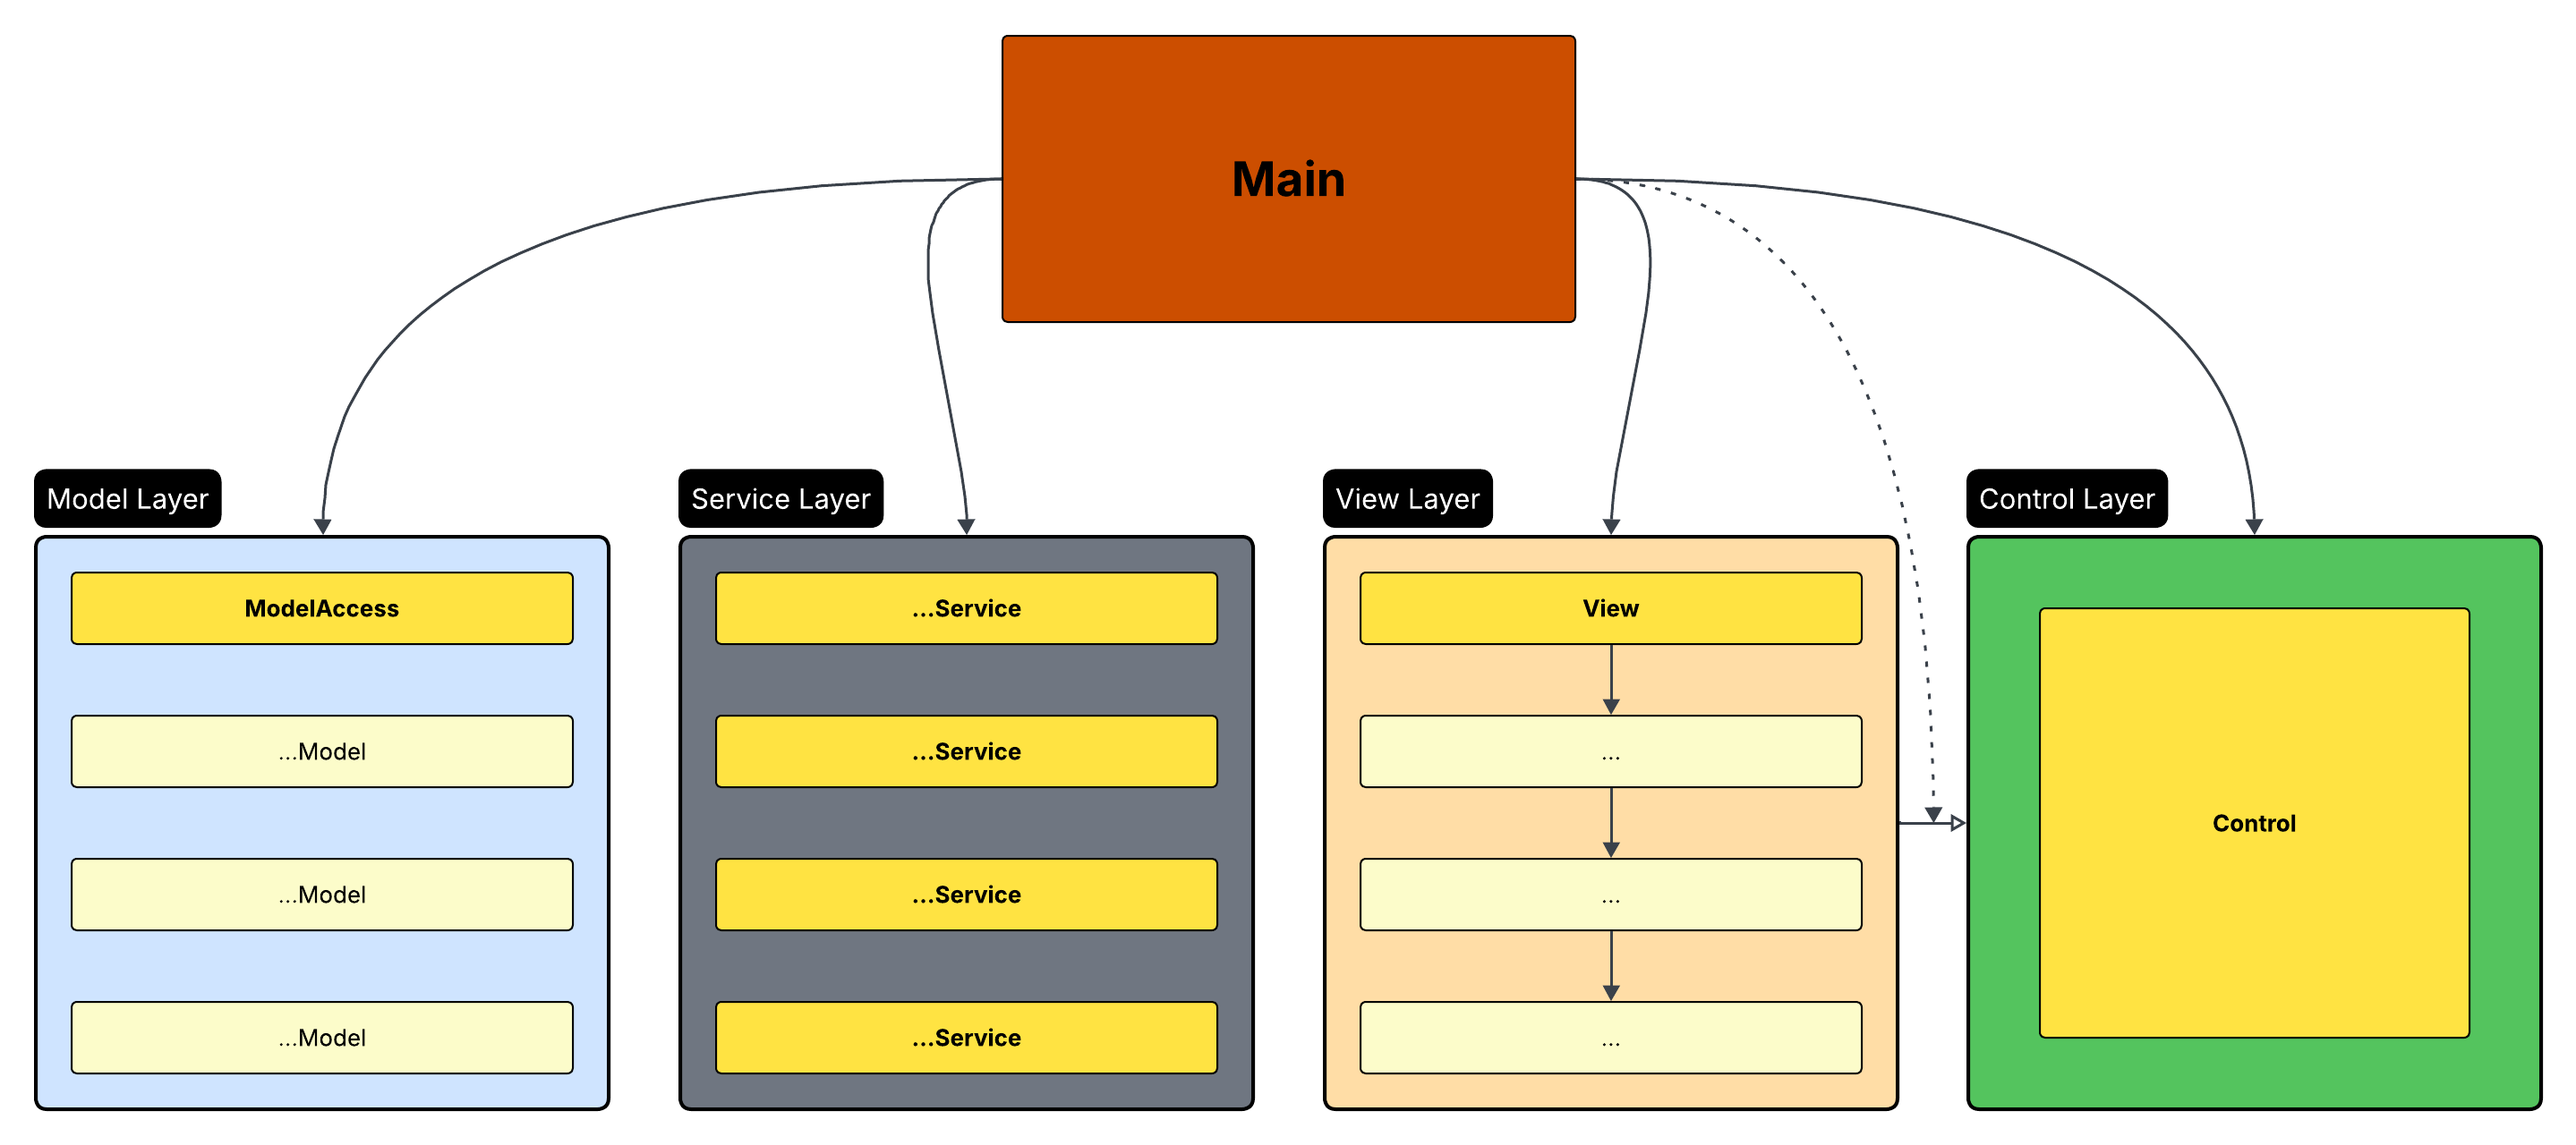
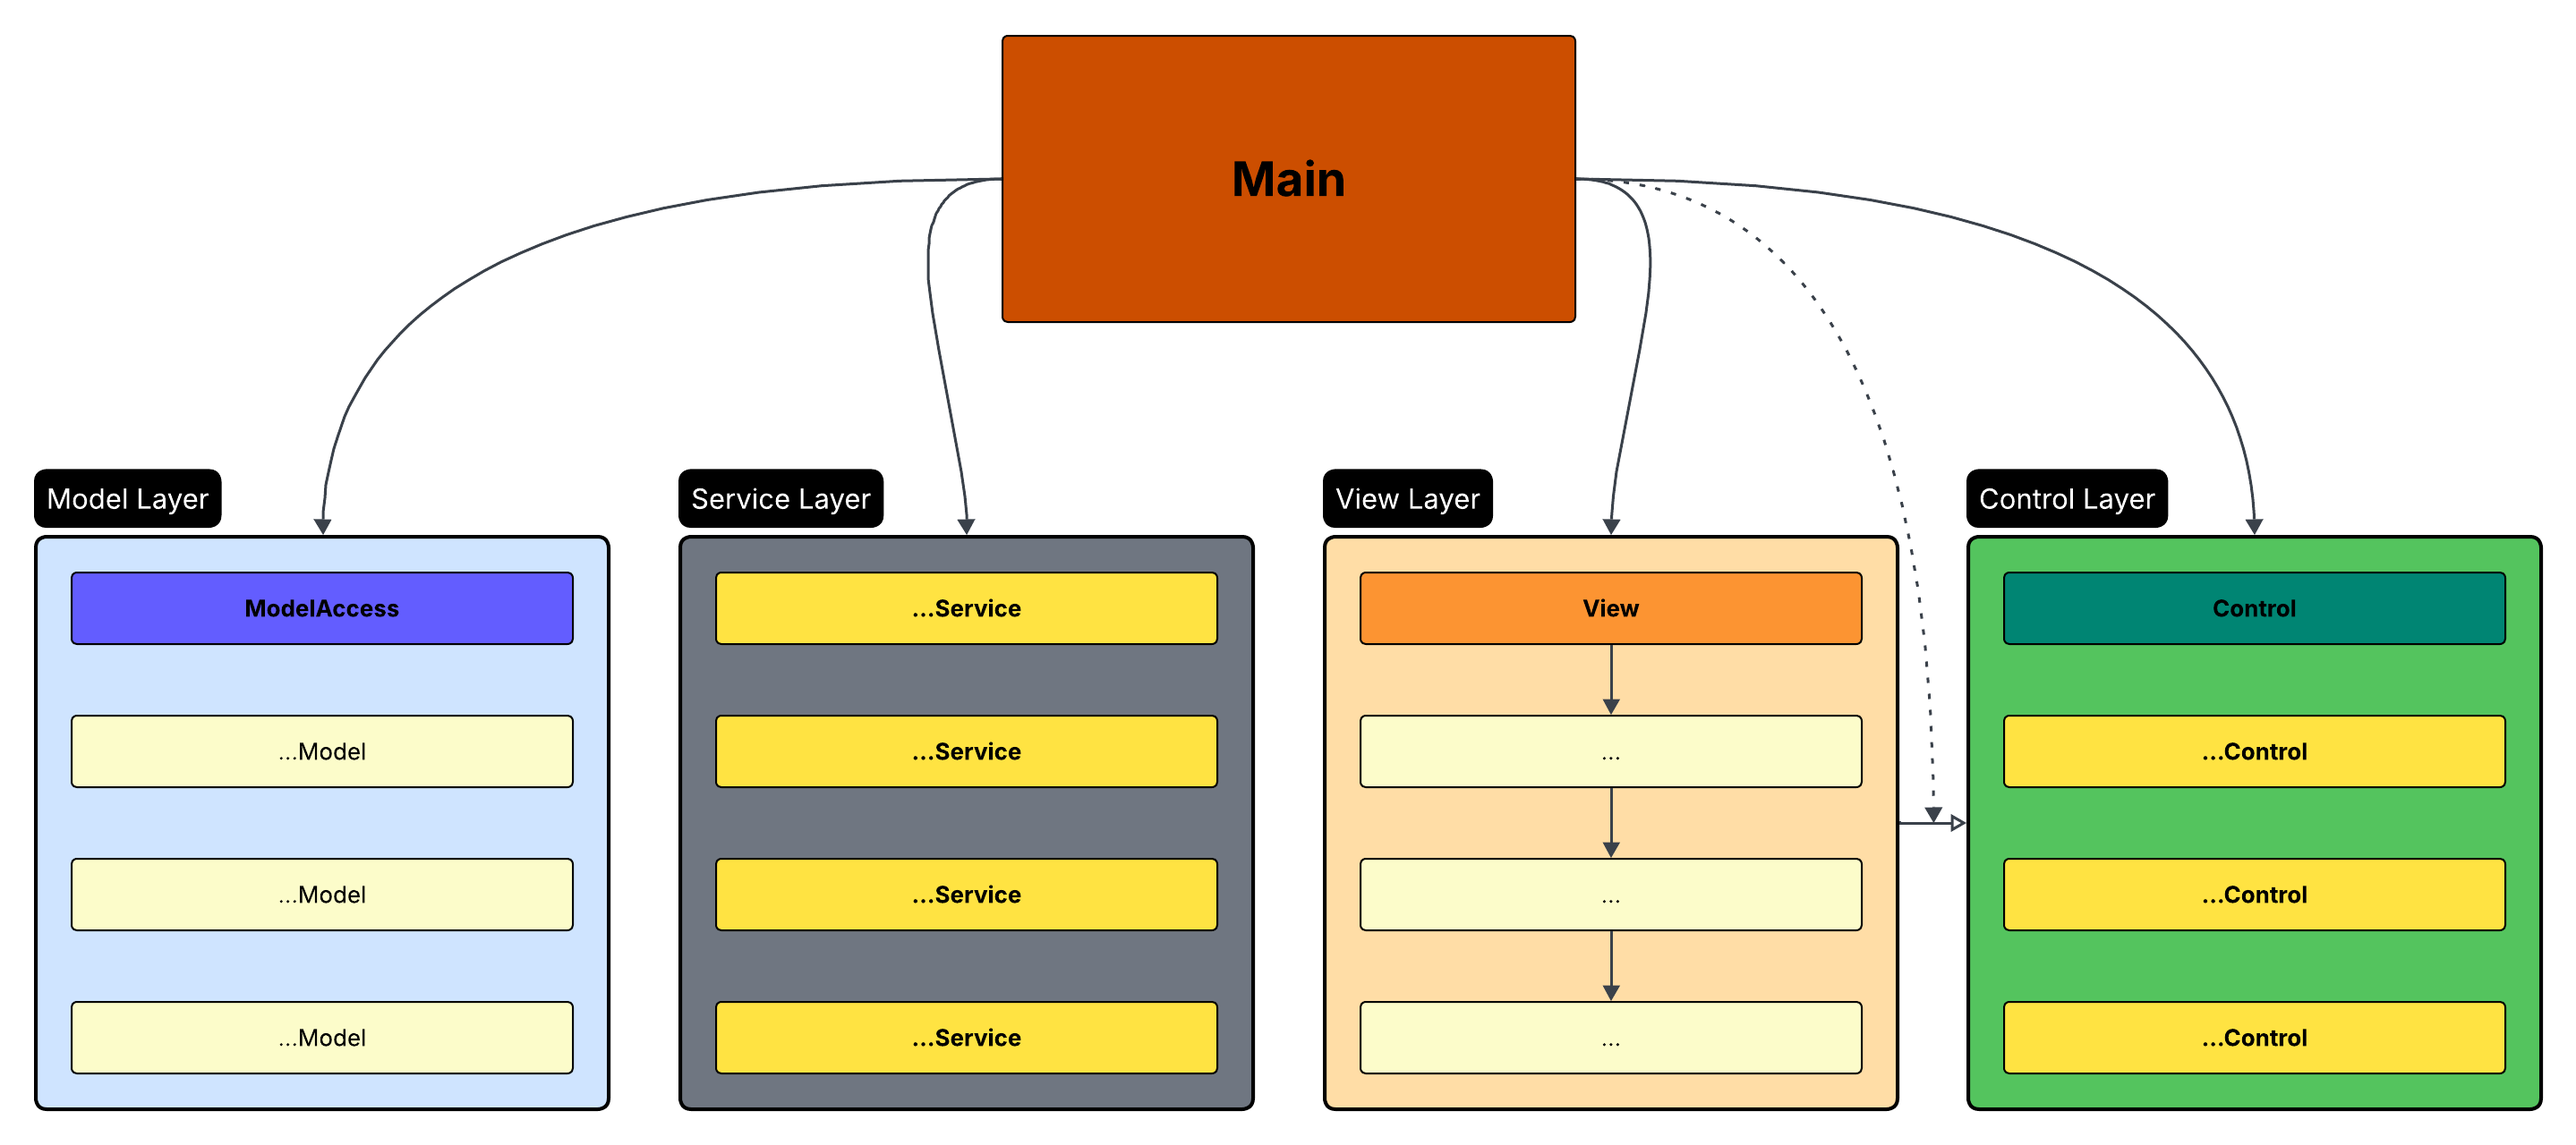
Update design image

diff --git a/hornet/view_layer/grid/canvaspainter.cpp b/hornet/view_layer/grid/canvaspainter.cpp
@@ -17,14 +17,16 @@ void CanvasPainter::drawGrid(QPainter &painter, double gridGap, QPoint offset, Q
     const double startX = std::fmod(offset.x(), gridGap);
     const double startY = std::fmod(offset.y(), gridGap);
 
-    const int verticalLines = static_cast<int>(std::ceil((size.width() - startX) / gridGap)) + 1;
-    for (int i = 0; i < verticalLines; ++i) {
+    const int noOfVerticalLines = static_cast<int>(std::ceil((size.width() - startX) / gridGap))
+                                  + 1;
+    for (int i = 0; i < noOfVerticalLines; ++i) {
         const double x = startX + i * gridGap;
         painter.drawLine(QPointF(x, 0), QPointF(x, size.height()));
     }
 
-    const int horizontalLines = static_cast<int>(std::ceil((size.height() - startY) / gridGap)) + 1;
-    for (int i = 0; i < horizontalLines; ++i) {
+    const int noOfHorizontalLines = static_cast<int>(std::ceil((size.height() - startY) / gridGap))
+                                    + 1;
+    for (int i = 0; i < noOfHorizontalLines; ++i) {
         const double y = startY + i * gridGap;
         painter.drawLine(QPointF(0, y), QPointF(0 + size.width(), y));
     }
@@ -41,6 +43,7 @@ void CanvasPainter::drawBoxes(QPainter &painter,
 
     const double edgeThickness = gridGap / 10.0;
     const double halfEdge = edgeThickness / 2.0;
+
     const int headerHeightUnits = 3;
     const float textScale = static_cast<float>(gridGap * 0.8)
                             / static_cast<float>(fontAtlas.cellHeight());
@@ -64,8 +67,8 @@ void CanvasPainter::drawBoxes(QPainter &painter,
                                 screenH - edgeThickness);
         const QRectF clipRect(screenX + edgeThickness,
                               screenY + edgeThickness,
-                              screenW - edgeThickness * 2,
-                              screenH - edgeThickness * 2);
+                              screenW - (edgeThickness * 2),
+                              screenH - (edgeThickness * 2));
 
         painter.setPen(Qt::NoPen);
         painter.setBrush(Theme::almostBlack());
@@ -87,6 +90,7 @@ void CanvasPainter::drawBoxes(QPainter &painter,
         const float headerTextX = static_cast<float>(screenX + screenW / 2.0)
                                   - headerTextWidth / 2.0f;
 
+        // header text:
         fontRenderer.drawText(painter,
                               headerTextX,
                               static_cast<float>(screenY) + lineOffset,
@@ -94,6 +98,7 @@ void CanvasPainter::drawBoxes(QPainter &painter,
                               Theme::almostBlack(),
                               textScale * scaleFactor);
 
+        // body text:
         const QVector<QString> &bodyLines = box.getBodyLines();
         for (int i = 0; i < bodyLines.size(); ++i) {
             const float lineY = static_cast<float>(screenY + headerH) + lineOffset

diff --git a/hornet/main.cpp b/hornet/main.cpp
@@ -8,6 +8,29 @@
 #include "view_layer/view.h"
 #include <service_layer/terminalservice.h>
 
+/*
+ * 
+ * I looked through the code, and I don't like how it is designed.
+ * Particularly how the boxes are sent over.
+ * I want to send the box data separately in its DTO, not in gridViewStateDTO.
+ * And I want to send one box data at a time, so the DTO would identify which box we are
+ * dealing with, wether we delete or create or modify, and wether we create or modify what the parameter values (size, location) are.
+ * I guess crud operations.
+ * Another issue I see is that BoxModel is used in the DTO and in View as well.
+ * I don't like that. We are sending a Model all the way to View. We should just send the box info, 
+ * as descibed ealier.
+ * Let's design it first, and let's do the work step by step only after I confirm the plan.
+ * 
+ * I like the BoxModel class.
+ * 
+ * I think in grid.cpp we don't need FontAtlas and FontRenderer. Currently we pass them to
+ * canvasPainter. Instead, we should just instantiate them there, in CanvasPainter.
+ * But don't put it into drawBoxes function, because I might have more functions in the CanvasPainter
+ * file that will do text rendering.
+ * 
+ * 
+ * /
+
 /**
  * @brief main The main function
  *

diff --git a/hornet/shared/dto_model_to_view/editorviewstatedto.h b/hornet/shared/dto_model_to_view/editorviewstatedto.h
@@ -2,13 +2,16 @@
 #include <QString>
 #include <QVector>
 
+/**
+ * @brief The EditorViewStateDTO class - Holds data to display the text in the editor correctly
+ */
 struct EditorViewStateDTO
 {
     QVector<QString> textLinesToDisplay;
-    int noOfAllLines;
-    int noOfCharsOfLongestLine;
-    QString fileType;
-    QVector<QString> terminalPrompts;
+    int noOfAllLines;           // to set Editor height for vertical scrolling
+    int noOfCharsOfLongestLine; // to set Editor width for horizontal scrolling
+    QString fileType; // file extension. Can be used for syntax highlighting or file-specific display (e.g. image)
+    QVector<QString> terminalPrompts; // terminal's current working directory
     explicit EditorViewStateDTO(QVector<QString> textLinesToDisplay,
                                 int noOfAllLines,
                                 int noOfCharsOfLongestLine,

diff --git a/hornet/shared/dto_view_to_model/editorvisiblelinesdto.h b/hornet/shared/dto_view_to_model/editorvisiblelinesdto.h
@@ -1,5 +1,9 @@
 #pragma once
 
+/**
+ * @brief The EditorVisibleLinesDTO class - Transfers how many lines the Editor can display
+ * and which line to start with.
+ */
 struct EditorVisibleLinesDTO
 {
     int noOfVisibleLines;

diff --git a/hornet/shared/dto_view_to_model/editorkeypressdto.h b/hornet/shared/dto_view_to_model/editorkeypressdto.h
@@ -16,7 +16,7 @@ struct EditorKeyPressDTO
         PageUp,
         PageDown,
         Tab,
-        CtrlD
+        CtrlD // debug
     };
     char32_t key;
     SpecialKey specialKey;
